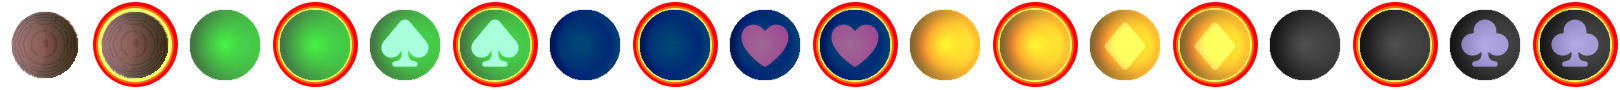
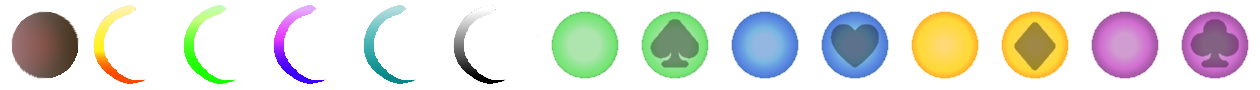
11/15/22 Updated marble sprites and associated css (wjplachno)

diff --git a/public/stylesheets/spots.css b/public/stylesheets/spots.css
@@ -26,7 +26,7 @@
     }
  }
  :root {
-    --spot_image_width_actual: 1620px;
+    --spot_image_width_actual: 1260px;
     --spot_image_width: calc( var(--spot_image_width_actual) / var(--spot_scale));
     --spot_size_actual: 90px;
     --spot_size: calc( var(--spot_size_actual) / var(--spot_scale) );
@@ -44,10 +44,6 @@
     --spot_index_11: calc(var(--spot_size) * -11);
     --spot_index_12: calc(var(--spot_size) * -12);
     --spot_index_13: calc(var(--spot_size) * -13);
-    --spot_index_14: calc(var(--spot_size) * -14);
-    --spot_index_15: calc(var(--spot_size) * -15);
-    --spot_index_16: calc(var(--spot_size) * -16);
-    --spot_index_17: calc(var(--spot_size) * -17);
 
 }
 
@@ -59,25 +55,26 @@
     width: var(--spot_size);
     height: var(--spot_size);
 }
-empty {         background-position-x:   var(--spot_index_0); }
-highlight {     background-position-x:   var(--spot_index_1); }
+empty { background-position-x:   var(--spot_index_0); }
 
-player1 {       background-position-x:   var(--spot_index_2); }
-player1High {   background-position-x:   var(--spot_index_3); }
-player1CB {     background-position-x:   var(--spot_index_4); }
-player1CBHigh { background-position-x:   var(--spot_index_5); }
+highlightRed {      background-position-x:   var(--spot_index_1); animation: rotation 1s infinite linear; }
+highlightGreen {    background-position-x:   var(--spot_index_2); animation: rotation 1s infinite linear; }
+highlightPurple {   background-position-x:   var(--spot_index_3); animation: rotation 1s infinite linear; }
+highlightBlue {     background-position-x:   var(--spot_index_4); animation: rotation 1s infinite linear; }
+highlightBlack {    background-position-x:   var(--spot_index_5); animation: rotation 1s infinite linear; }
 
-player2 {       background-position-x:   var(--spot_index_6); }
-player2High {   background-position-x:   var(--spot_index_7); }
-player2CB {     background-position-x:   var(--spot_index_8); }
-player2CBHigh { background-position-x:   var(--spot_index_9); }
+player1 {       background-position-x:   var(--spot_index_6); }
+player1CB {     background-position-x:   var(--spot_index_7); }
+
+player2 {       background-position-x:   var(--spot_index_8); }
+player2CB {     background-position-x:   var(--spot_index_9); }
 
 player3 {       background-position-x:   var(--spot_index_10); }
-player3High {   background-position-x:   var(--spot_index_11); }
-player3CB {     background-position-x:   var(--spot_index_12); }
-player3CBHigh { background-position-x:   var(--spot_index_13); }
+player3CB {     background-position-x:   var(--spot_index_11); }
 
-player4 {       background-position-x:   var(--spot_index_14); }
-player4High {   background-position-x:   var(--spot_index_15); }
-player4CB {     background-position-x:   var(--spot_index_16); }
-player4CBHigh { background-position-x:   var(--spot_index_17); }
+player4 {       background-position-x:   var(--spot_index_12); }
+player4CB {     background-position-x:   var(--spot_index_13); }
+
+.consider{
+    animation: rotation 1s infinite linear;
+}
